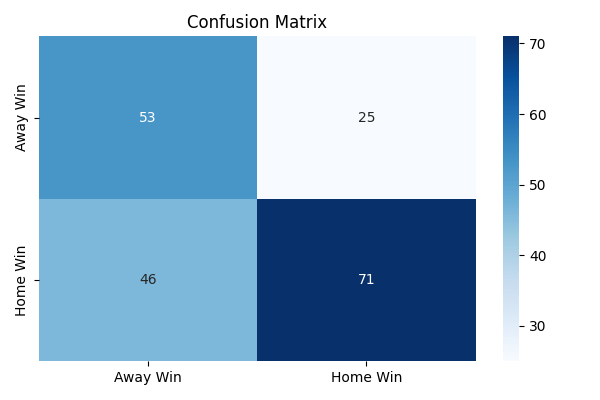
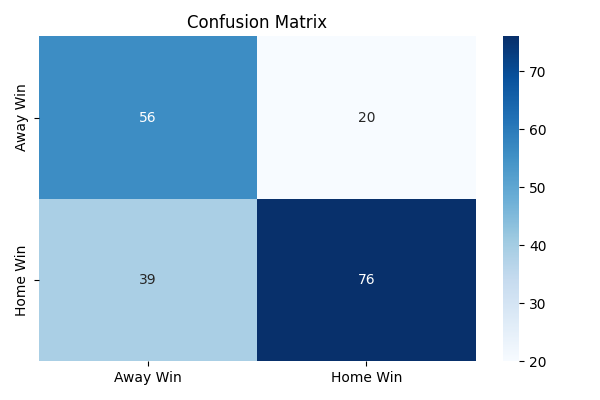
clean 15-feature model, AUC 0.774, no leakage

diff --git a/visualize.py b/visualize.py
@@ -6,9 +6,10 @@ from sklearn.metrics import confusion_matrix, roc_curve, roc_auc_score
 
 df = pd.read_csv("features.csv")
 
-features = ['pts_diff','fg_diff','fg3_diff','reb_diff','ast_diff',
-            'tov_diff','stl_diff','pm_diff','rest_diff',
-            'win_pct_diff','def_diff','home_court']
+features = ['off_rtg_diff','def_rtg_diff','net_rtg_diff','pace_diff',
+            'ts_pct_diff','rest_diff','last15_win_diff','last15_pm_diff',
+            'fg3_diff','reb_diff','ast_diff','tov_diff','stl_diff',
+            'win_pct_diff','home_court']
 
 X = df[features]
 y = df['home_win']
@@ -49,13 +50,36 @@ plt.savefig("roc_curve.png")
 plt.show()
 
 # 3. Feature importance
-coefs = pd.Series(model.named_steps['clf'].coef_[0], index=features)
-plt.figure(figsize=(8,5))
+coefs = pd.Series(model.feature_importances_ 
+                  if hasattr(model.named_steps['clf'], 'feature_importances_') 
+                  else model.named_steps['clf'].coef_[0], 
+                  index=features)
+plt.figure(figsize=(8,6))
 sns.barplot(x=coefs.values, y=coefs.index, palette='coolwarm')
 plt.axvline(0, color='black', linewidth=0.8)
 plt.title("Feature Importance")
 plt.tight_layout()
 plt.savefig("feature_importance.png")
 plt.show()
+
+# Save best model by AUC
+models = [('Logistic Regression', lr, lr_auc), 
+          ('Random Forest', rf, rf_auc),
+          ('XGBoost', xgb, xgb_auc),
+          ('Ensemble', ensemble, ensemble_auc)]
+
+best_name, best_model, best_auc_score = max(models, key=lambda x: x[2])
+print("Best model: " + best_name + " (AUC: " + str(round(best_auc_score, 3)) + ")")
+
+with open("model.pkl", "wb") as f:
+    pickle.dump(best_model, f)
+
+# Verify it saved correctly
+import pickle as pk
+with open("model.pkl", "rb") as f:
+    check = pk.load(f)
+print("Saved model type: " + str(type(check.named_steps['clf']).__name__))
+print("Saved features: " + str(list(check.named_steps['scaler'].feature_names_in_)))
+print("Best model saved to model.pkl")
 
 print("All charts saved!")

diff --git a/model.py b/model.py
@@ -12,7 +12,8 @@ df = pd.read_csv("features.csv")
 
 features = ['off_rtg_diff','def_rtg_diff','net_rtg_diff','pace_diff',
             'ts_pct_diff','rest_diff','last15_win_diff','last15_pm_diff',
-            'home_court']
+            'fg3_diff','reb_diff','ast_diff','tov_diff','stl_diff',
+            'win_pct_diff','home_court']
 
 X = df[features]
 y = df['home_win']
@@ -81,7 +82,22 @@ print()
 print(classification_report(y_test, xgb.predict(X_test)))
 
 # Save best model
-best = max([(lr, lr_auc), (rf, rf_auc), (xgb, xgb_auc), (ensemble, ensemble_auc)], key=lambda x: x[1])[0]
+# Save best model by AUC
+models = [('Logistic Regression', lr, lr_auc), 
+          ('Random Forest', rf, rf_auc),
+          ('XGBoost', xgb, xgb_auc),
+          ('Ensemble', ensemble, ensemble_auc)]
+
+best_name, best_model, best_auc_score = max(models, key=lambda x: x[2])
+print("Best model: " + best_name + " (AUC: " + str(round(best_auc_score, 3)) + ")")
+
 with open("model.pkl", "wb") as f:
-    pickle.dump(best, f)
+    pickle.dump(best_model, f)
+
+# Verify it saved correctly
+import pickle as pk
+with open("model.pkl", "rb") as f:
+    check = pk.load(f)
+print("Saved model type: " + str(type(check.named_steps['clf']).__name__))
+print("Saved features: " + str(list(check.named_steps['scaler'].feature_names_in_)))
 print("Best model saved to model.pkl")
